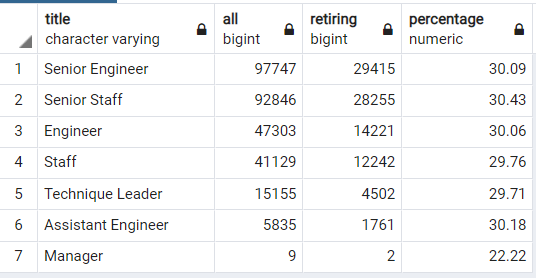
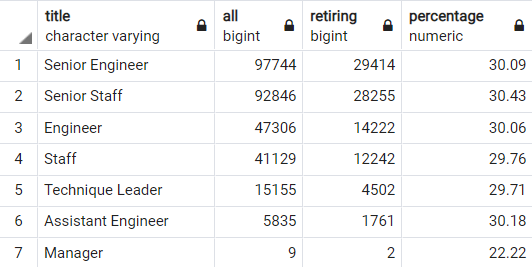
Fixed retirements by title

Changed region(s): [[0.0, 0.0, 1.0, 0.9888], [0.0301, 0.3296, 0.2406, 0.3895], [0.6617, 0.3296, 0.7519, 0.3895]]

diff --git a/README.md b/README.md
@@ -10,7 +10,7 @@ The objective of this analysis is to determine the number of retiring employees 
 
 From the retirement table, we can observe the following:
 * About 30% in each title is retiring.
-* 63.8% of all sretiring employees correspond to a Senior title.
+* 63.8% of all retiring employees correspond to a Senior title.
 
 |Mentors Summary|
 |-|
@@ -21,7 +21,7 @@ From the Mentors table we can see that:
 * In average, only 0.49% of all employees are mentors
 
 ## Summary
-* As seen from the retirement results, there is a total of 90,398 employees retiring from various positins. This does not mean that all of them should be filled. Since 30.13% of all the employees are retiring, it is a good opportunity to think about restructuring the company. This could lead to a big reduction in the amount of employees needed to be hired.
+* As seen from the retirement results, there is a total of 90,398 employees retiring from various positins. This does not mean that all of them should be filled. Since 30.04% of all the employees, excluding management (28.92% incuding management, but it is an outlier according to the IQR criteria), are retiring, it is a good opportunity to think about restructuring the company. This could lead to a big reduction in the amount of employees needed to be hired.
 * When analysing the amount of qualified, retirement-ready employees in the departments to mentor the next generation of Pewlett Hackard employees, we see that only 1549 (0.49%) of all employees fulfill the mentor conditions. Assuming that all positions need to be filled, the mentor to new employee ratio would be 1 to 58.36, this is like an undergraduate studies teacher to student ratio. Unless this mentors' job becomes a full time mentoring, or the positions to be filled have a very simple job, there is no way this company will be able to train it's new employees correctly.
 * Two additional tables that could help understand the "Silver Tsunami" are a retirementand mentors by department summary like the ones shown below.
 
